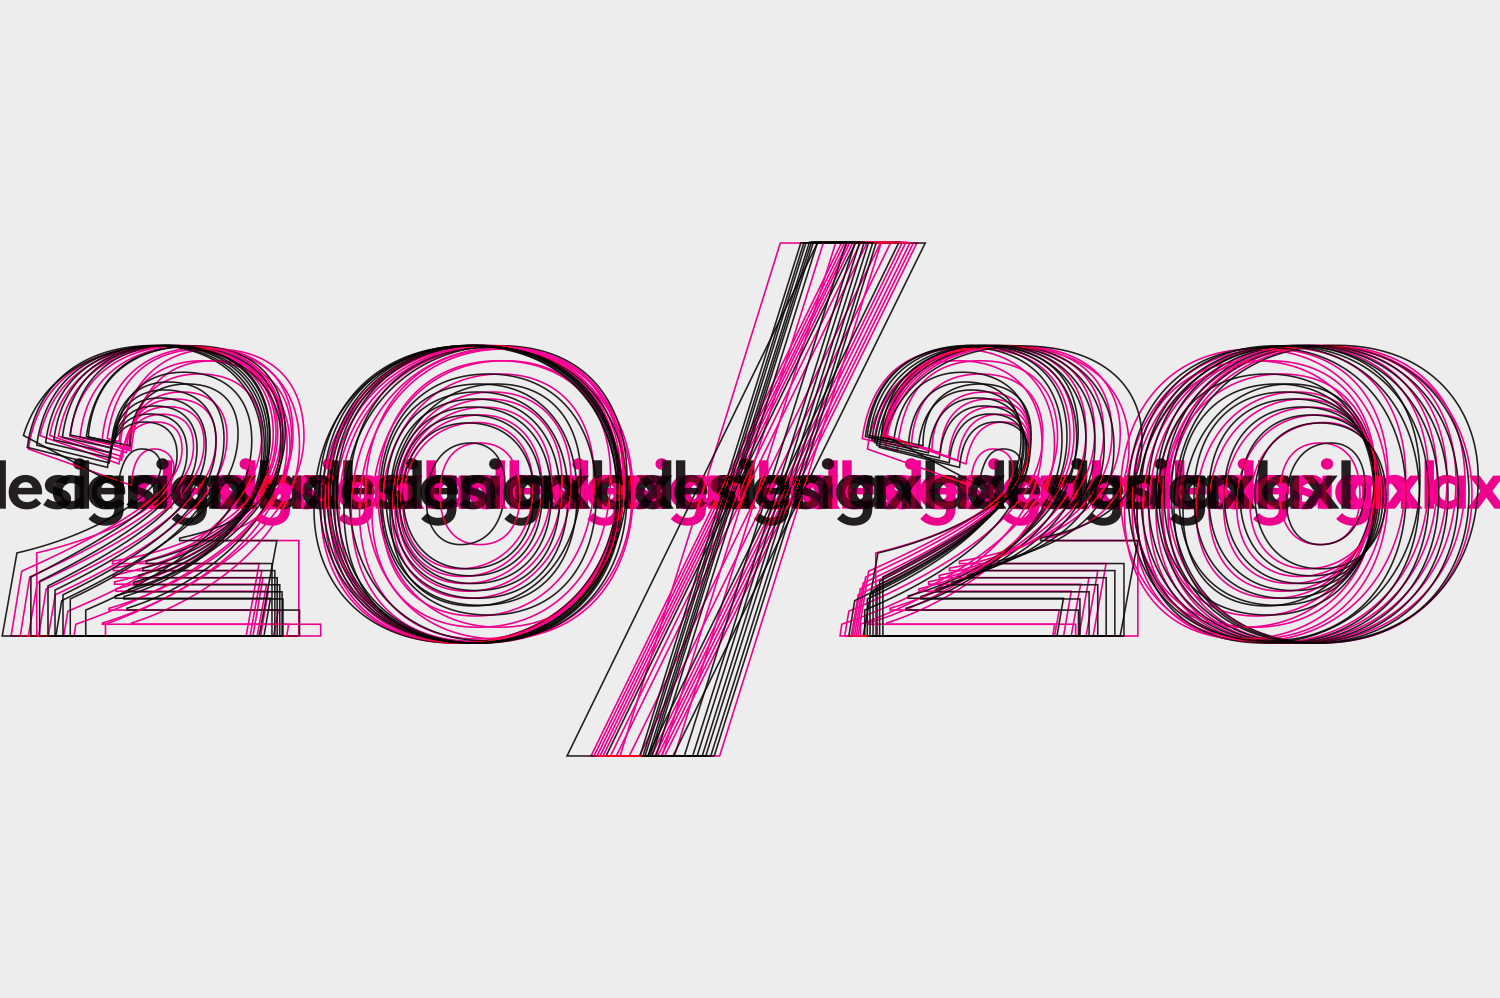
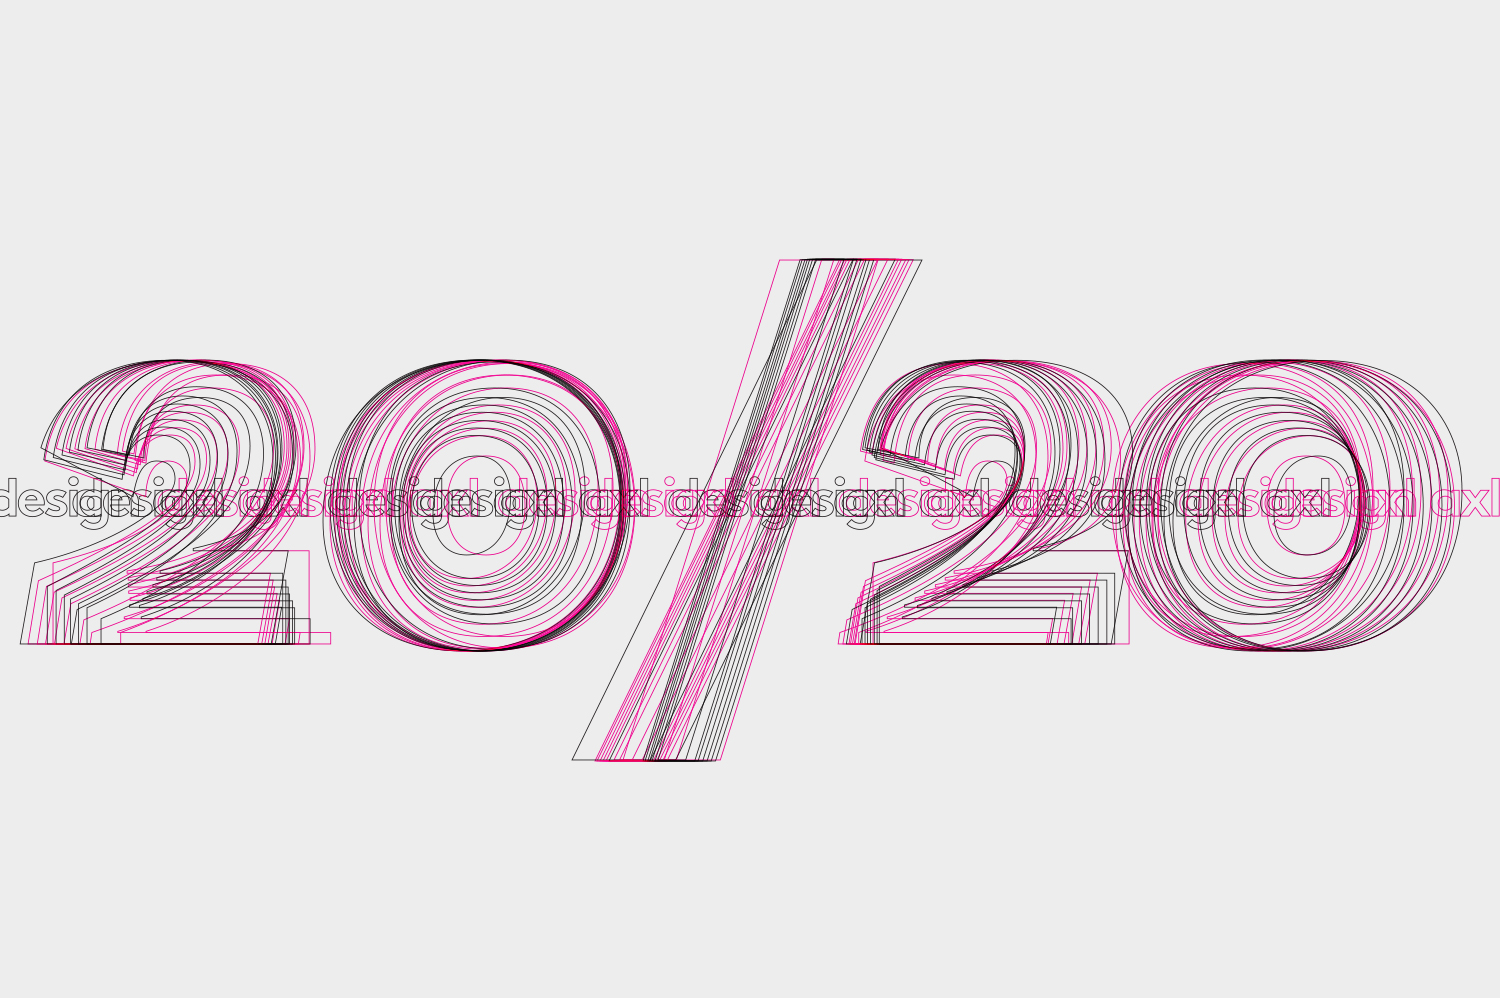
updated home page more to come

Changed region(s): [[0.0, 0.2174, 1.0, 0.7766]]

diff --git a/index.html b/index.html
@@ -94,12 +94,12 @@
 
 
 <div class="aspect-ratio aspect-ratio--6x4 carousel" data-flickity='{ "lazyLoad": true, "autoPlay": true }'>
-    <img class="db w-100" data-flickity-lazyload="/site-cover-roll-010.jpg" alt="Photo by Liz Linder">
+    <img class="db w-100" data-flickity-lazyload="/site-cover-2020-012.jpg" alt="20/20">
     <img class="db w-100" data-flickity-lazyload="/site-cover-005.jpg" alt="Photo by Liz Linder">
-    <img class="db w-100" data-flickity-lazyload="/site-cover-003.jpg" alt="Photo by Liz Linder">
-    <img class="db w-100" data-flickity-lazyload="/site-cover-002.jpg" alt="Photo by Liz Linder">
-    <img class="db w-100" data-flickity-lazyload="/site-cover-008.jpg" alt="Photo by Liz Linder">
-    <img class="db w-100" data-flickity-lazyload="/site-cover-006.jpg" alt="Photo by Liz Linder">
+    <img class="db w-100" data-flickity-lazyload="/site-cover-003.jpg" alt="PHAI">
+    <img class="db w-100" data-flickity-lazyload="/site-cover-002.jpg" alt="Blink">
+    <img class="db w-100" data-flickity-lazyload="/site-cover-008.jpg" alt="T3 Advisors">
+    <img class="db w-100" data-flickity-lazyload="/site-cover-006.jpg" alt="Grid City Beer Works">
 
 
   </div>
